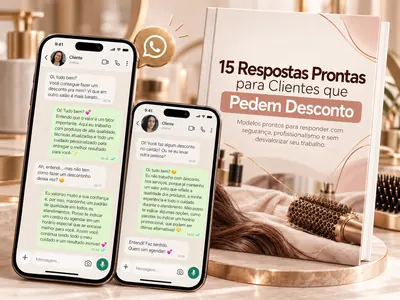
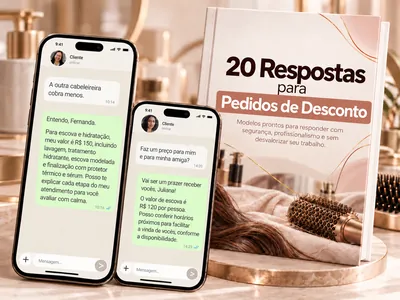
Versao 1.6.0: bonus novos do Premium na pagina A

diff --git a/index.html b/index.html
@@ -220,12 +220,12 @@
 
           <article class="bonus" data-revelar>
             <div class="bonus__imagem">
-              <img src="imagens/bonus/bonus-02-800.webp" srcset="imagens/bonus/bonus-02-400.webp 400w, imagens/bonus/bonus-02-800.webp 800w" sizes="(min-width: 1024px) 340px, (min-width: 640px) 46vw, 92vw" alt="Mockup das 15 respostas prontas para clientes que pedem desconto" width="800" height="600" loading="lazy" decoding="async">
+              <img src="imagens/bonus/bonus-02-800.webp?v=2" srcset="imagens/bonus/bonus-02-400.webp?v=2 400w, imagens/bonus/bonus-02-800.webp?v=2 800w" sizes="(min-width: 1024px) 340px, (min-width: 640px) 46vw, 92vw" alt="Mockup das 20 respostas prontas para clientes que pedem desconto" width="800" height="600" loading="lazy" decoding="async">
             </div>
             <div class="bonus__corpo">
               <span class="etiqueta">BÔNUS 02</span>
-              <h3 class="bonus__titulo">15 respostas prontas para clientes que pedem desconto</h3>
-              <p>Saiba o que dizer quando uma cliente questionar seus preços.</p>
+              <h3 class="bonus__titulo">20 respostas prontas para clientes que pedem desconto</h3>
+              <p>Saiba o que responder quando a cliente pedir desconto, fiado ou disser que a colega cobra menos.</p>
               <div class="bonus__rodape">
                 <span class="bonus__valor">Valor estimado: R$ 27,00</span>
                 <span class="selo-incluido"><svg class="icone" aria-hidden="true"><use href="#i-check"/></svg>INCLUÍDO NO PREMIUM</span>
@@ -235,12 +235,12 @@
 
           <article class="bonus" data-revelar>
             <div class="bonus__imagem">
-              <img src="imagens/bonus/bonus-03-800.webp" srcset="imagens/bonus/bonus-03-400.webp 400w, imagens/bonus/bonus-03-800.webp 800w" sizes="(min-width: 1024px) 340px, (min-width: 640px) 46vw, 92vw" alt="Mockup do catálogo de serviços pronto para editar" width="800" height="600" loading="lazy" decoding="async">
+              <img src="imagens/bonus/bonus-03-800.webp?v=2" srcset="imagens/bonus/bonus-03-400.webp?v=2 400w, imagens/bonus/bonus-03-800.webp?v=2 800w" sizes="(min-width: 1024px) 340px, (min-width: 640px) 46vw, 92vw" alt="Mockup do Kit Orçamento Profissional" width="800" height="600" loading="lazy" decoding="async">
             </div>
             <div class="bonus__corpo">
               <span class="etiqueta">BÔNUS 03</span>
-              <h3 class="bonus__titulo">Catálogo de Serviços Pronto para Editar</h3>
-              <p>Mostre seus serviços e preços com cara de salão profissional no WhatsApp, no Instagram ou impresso. É só trocar os textos no Canva.</p>
+              <h3 class="bonus__titulo">Kit Orçamento Profissional</h3>
+              <p>Ficha de avaliação capilar, modelo de orçamento com o logo do seu salão, controle de propostas e catálogo de serviços editável no Canva.</p>
               <div class="bonus__rodape">
                 <span class="bonus__valor">Valor estimado: R$ 47,00</span>
                 <span class="selo-incluido"><svg class="icone" aria-hidden="true"><use href="#i-check"/></svg>INCLUÍDO NO PREMIUM</span>
@@ -265,12 +265,12 @@
 
           <article class="bonus" data-revelar>
             <div class="bonus__imagem">
-              <img src="imagens/bonus/bonus-05-800.webp" srcset="imagens/bonus/bonus-05-400.webp 400w, imagens/bonus/bonus-05-800.webp 800w" sizes="(min-width: 1024px) 340px, (min-width: 640px) 46vw, 92vw" alt="Mockup das 20 mensagens prontas para trazer clientes de volta" width="800" height="600" loading="lazy" decoding="async">
+              <img src="imagens/bonus/bonus-05-800.webp?v=2" srcset="imagens/bonus/bonus-05-400.webp?v=2 400w, imagens/bonus/bonus-05-800.webp?v=2 800w" sizes="(min-width: 1024px) 340px, (min-width: 640px) 46vw, 92vw" alt="Mockup do Kit de Controle de Clientes" width="800" height="600" loading="lazy" decoding="async">
             </div>
             <div class="bonus__corpo">
               <span class="etiqueta">BÔNUS 05</span>
-              <h3 class="bonus__titulo">20 mensagens prontas para trazer clientes de volta</h3>
-              <p>Entre em contato com clientes que sumiram e incentive novos agendamentos pelo WhatsApp.</p>
+              <h3 class="bonus__titulo">Kit de Controle de Clientes</h3>
+              <p>Ficha da cliente com histórico químico, controle de retornos e 20 mensagens prontas para trazer de volta quem sumiu.</p>
               <div class="bonus__rodape">
                 <span class="bonus__valor">Valor estimado: R$ 47,00</span>
                 <span class="selo-incluido"><svg class="icone" aria-hidden="true"><use href="#i-check"/></svg>INCLUÍDO NO PREMIUM</span>
@@ -326,10 +326,10 @@
             <p class="plano__subtitulo">Você também recebe 5 bônus exclusivos:</p>
             <ul class="lista-check lista-check--bonus">
               <li><svg class="icone" aria-hidden="true"><use href="#i-check"/></svg>20 mensagens para comunicar aumento de preços</li>
-              <li><svg class="icone" aria-hidden="true"><use href="#i-check"/></svg>15 respostas para pedidos de desconto</li>
-              <li><svg class="icone" aria-hidden="true"><use href="#i-check"/></svg>Catálogo de serviços pronto para editar</li>
+              <li><svg class="icone" aria-hidden="true"><use href="#i-check"/></svg>20 respostas para pedidos de desconto</li>
+              <li><svg class="icone" aria-hidden="true"><use href="#i-check"/></svg>Kit Orçamento Profissional (ficha de avaliação, orçamento e catálogo no Canva)</li>
               <li><svg class="icone" aria-hidden="true"><use href="#i-check"/></svg>Tabela de rendimento de produtos capilares</li>
-              <li><svg class="icone" aria-hidden="true"><use href="#i-check"/></svg>20 mensagens para trazer clientes de volta</li>
+              <li><svg class="icone" aria-hidden="true"><use href="#i-check"/></svg>Kit de Controle de Clientes (histórico químico, retornos e 20 mensagens)</li>
             </ul>
             <ul class="lista-check lista-check--garantia">
               <li><svg class="icone" aria-hidden="true"><use href="#i-check"/></svg><strong>Garantia estendida de 30 dias</strong></li>
